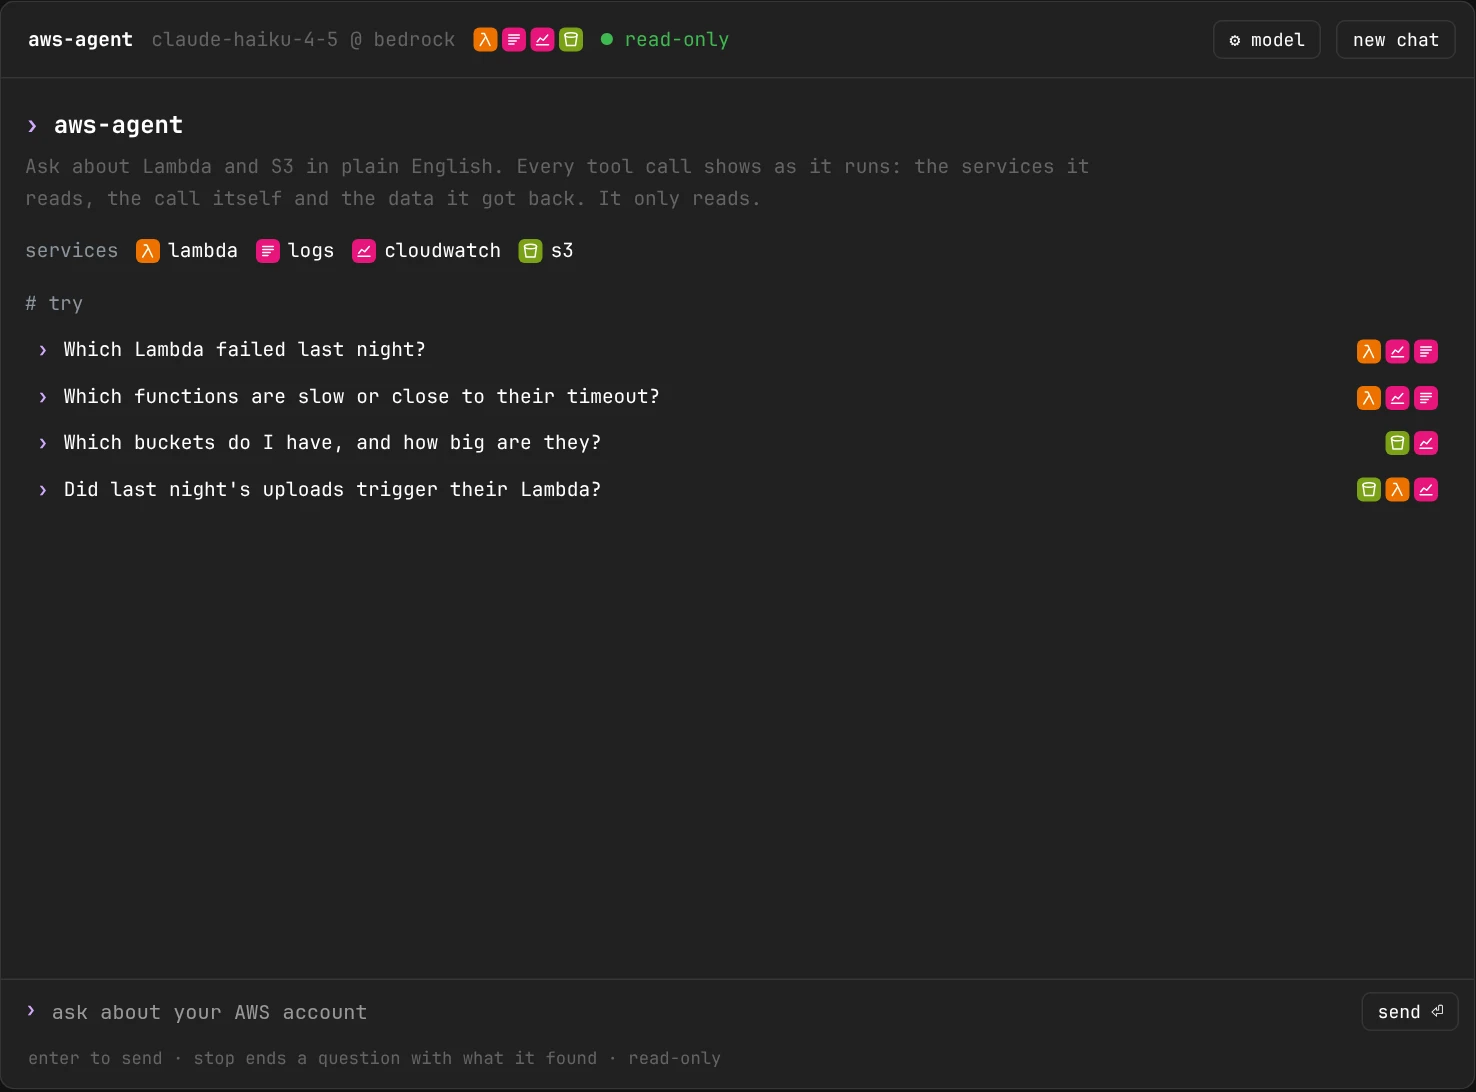
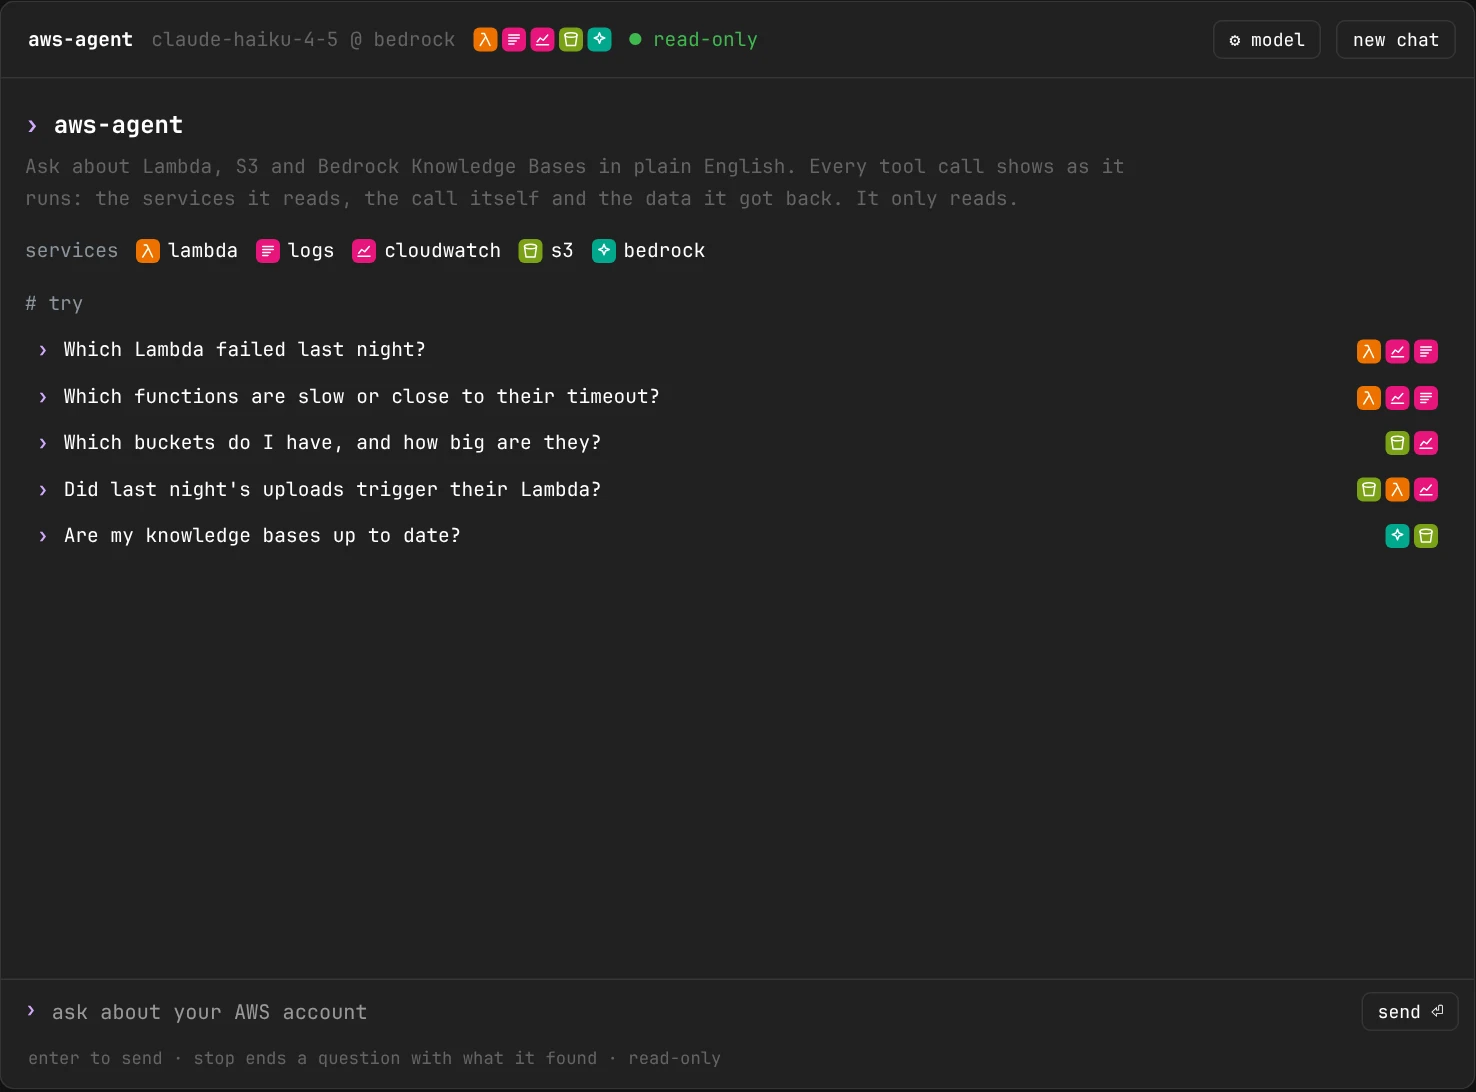
Docs: the agent's empty chat window with knowledge bases
Remake agent-chat-start: the bedrock badge, the intro naming Bedrock
Knowledge Bases and the "Are my knowledge bases up to date?" suggestion.
Its alt text says five badges and five questions.

Claude-Session: https://claude.ai/code/session_017avXM5oPq1V938L3SVaku6

diff --git a/docs/agent.md b/docs/agent.md
@@ -107,8 +107,8 @@ agent.chat()
 
 Type a question and press Enter, or click one of the questions to start from.
 
-![The agent's chat window, empty, in a monospace font: a header with aws-agent, claude-haiku-4-5 @ bedrock, four small service badges (Lambda's orange λ, CloudWatch Logs' pink lines, CloudWatch's pink chart and S3's green bucket), a green read-only, and the ⚙ model and new chat buttons; then a short line on what the agent does, a legend of those badges named lambda, logs, cloudwatch and s3, and under # try four questions, each with the badges of the services it reads; at the bottom a › prompt to type in, a send button, and a line saying enter sends, stop ends a question with what it found, and it's read-only](images/agent-chat-start-light.webp#only-light){ width="984" height="728" loading=lazy }
-![The agent's chat window, empty, in a monospace font: a header with aws-agent, claude-haiku-4-5 @ bedrock, four small service badges (Lambda's orange λ, CloudWatch Logs' pink lines, CloudWatch's pink chart and S3's green bucket), a green read-only, and the ⚙ model and new chat buttons; then a short line on what the agent does, a legend of those badges named lambda, logs, cloudwatch and s3, and under # try four questions, each with the badges of the services it reads; at the bottom a › prompt to type in, a send button, and a line saying enter sends, stop ends a question with what it found, and it's read-only](images/agent-chat-start-dark.webp#only-dark){ width="984" height="728" loading=lazy }
+![The agent's chat window, empty, in a monospace font: a header with aws-agent, claude-haiku-4-5 @ bedrock, five small service badges (Lambda's orange λ, CloudWatch Logs' pink lines, CloudWatch's pink chart, S3's green bucket and Bedrock's teal spark), a green read-only, and the ⚙ model and new chat buttons; then a short line on what the agent does, a legend of those badges named lambda, logs, cloudwatch, s3 and bedrock, and under # try five questions, each with the badges of the services it reads; at the bottom a › prompt to type in, a send button, and a line saying enter sends, stop ends a question with what it found, and it's read-only](images/agent-chat-start-light.webp#only-light){ width="984" height="728" loading=lazy }
+![The agent's chat window, empty, in a monospace font: a header with aws-agent, claude-haiku-4-5 @ bedrock, five small service badges (Lambda's orange λ, CloudWatch Logs' pink lines, CloudWatch's pink chart, S3's green bucket and Bedrock's teal spark), a green read-only, and the ⚙ model and new chat buttons; then a short line on what the agent does, a legend of those badges named lambda, logs, cloudwatch, s3 and bedrock, and under # try five questions, each with the badges of the services it reads; at the bottom a › prompt to type in, a send button, and a line saying enter sends, stop ends a question with what it found, and it's read-only](images/agent-chat-start-dark.webp#only-dark){ width="984" height="728" loading=lazy }
 /// caption
 **Start here**: the badges show which AWS services the agent reads; every question to start from shows the ones it needs.
 ///
